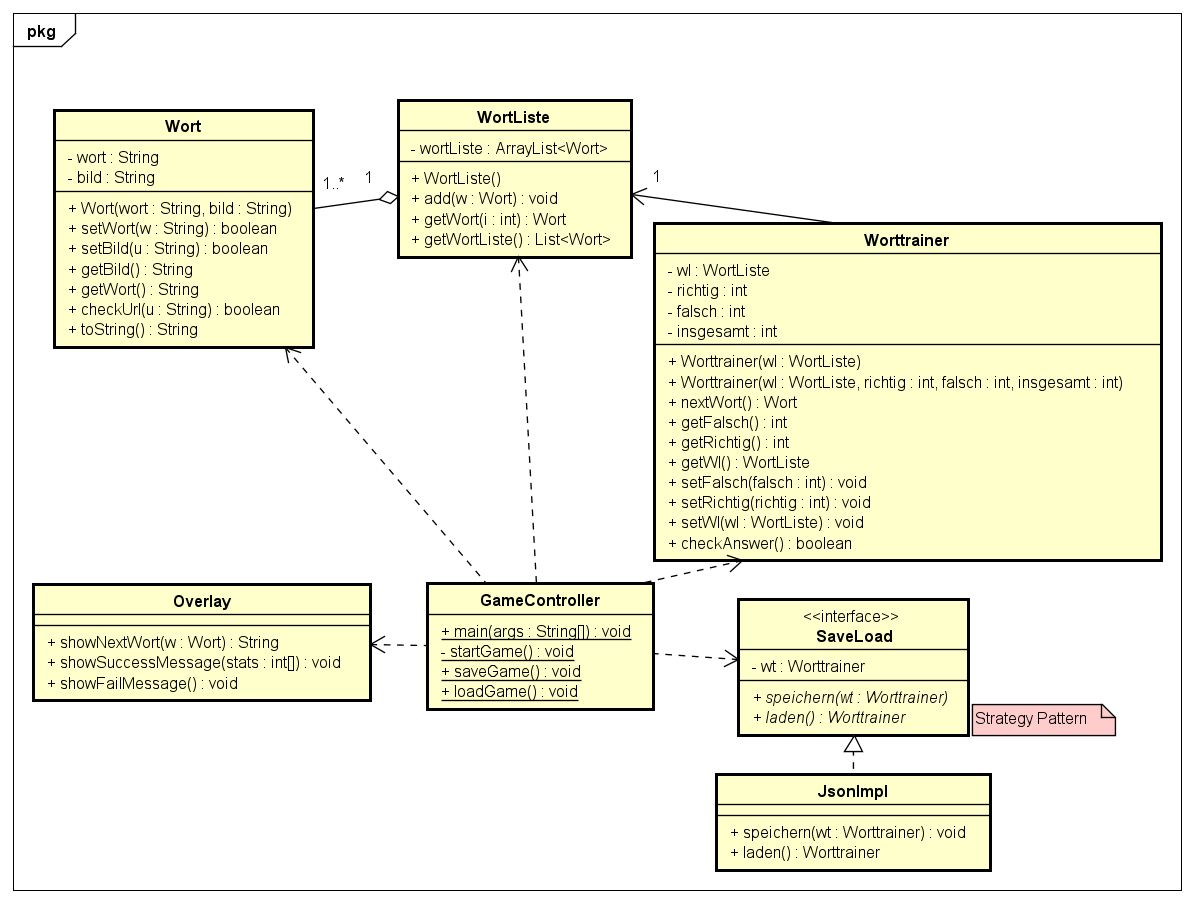
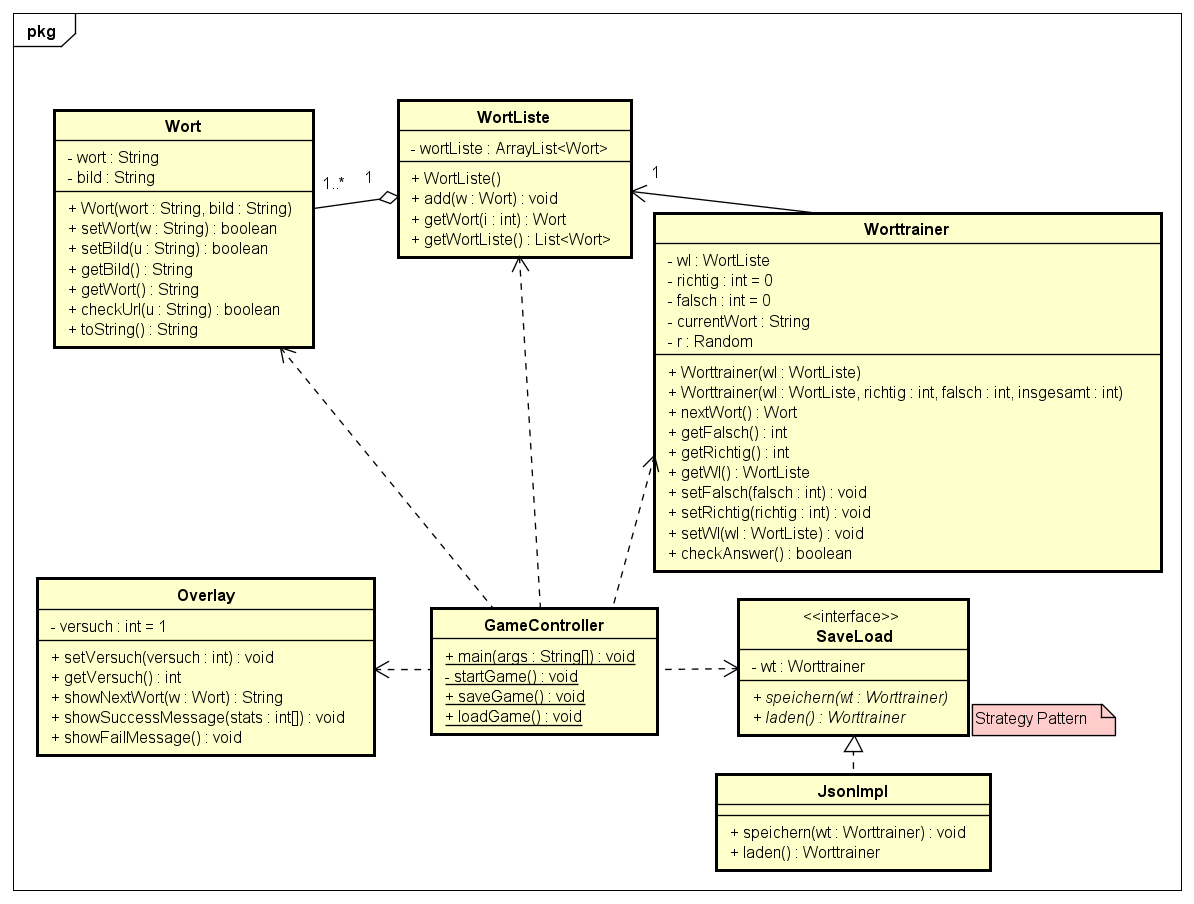
Einrückung in Overlay-Klasse README und UML erweitert

Changed region(s): [[0.0, 0.1858, 0.9916, 0.8363], [0.5888, 0.7124, 0.6198, 0.7434], [0.2169, 0.3717, 0.2479, 0.4027]]

diff --git a/src/main/java/at/bprinc/Overlay.java b/src/main/java/at/bprinc/Overlay.java
@@ -62,13 +62,9 @@ public class Overlay {
         buttonPanel.add(Box.createRigidArea(new Dimension(10, 0)));
         buttonPanel.add(ladenbtn);
 
-        speicherbtn.addActionListener(e -> {
-            GameController.saveGame();
-        });
+        speicherbtn.addActionListener(e -> GameController.saveGame());
 
-        ladenbtn.addActionListener(e -> {
-            GameController.loadGame();
-        });
+        ladenbtn.addActionListener(e -> GameController.loadGame());
 
         panel.add(buttonPanel);
         panel.add(Box.createRigidArea(new Dimension(0, 10)));

diff --git a/README.md b/README.md
@@ -1,7 +1,7 @@
 # WorttrainerReloaded
 **Autor**: Benjamin Princ
 
-**Datum**: 11.10.2024
+**Datum**: 13.10.2024
 
 ## Einleitung
 Ziel ist es den Worttrainer mit dem jetzigen Wissen neu umzusetzen und mit JOptionPane
@@ -16,9 +16,17 @@ Zu Start des Spiels wird ein neues [Worttrainer](/src/main/java/at/bprinc/Worttr
 mit einer vorgegebenen Wortliste erstellt.
 Die Benutzeroberfläche bietet dann die Methode ein altes Spiel zu laden, bzw das jetzige zu speichern.
 
+#### Verwendete Technologien
+Die Benutzeroberfläche (GUI) wird mit **JOptionPane** umgesetzt.
+
+Das Speichern und Laden ist auf Basis des Strategy Patterns aufgebaut und implementiert derzeit **JSON**.
+
 #### Benutzeroberfläche
 Im Programm Fenster wird das Bild des gesuchten Wortes, ein Eingabefeld und vier Buttons angezeigt:
 * **Speichern**: Speichert das Spiel unter einem fixen Speicherpfad
 * **Laden**: Lädt ein vergangenes Spiel aus dem fixen Speicherpfad
 * **OK**: Sendet die Nutzereingabe ab
 * **Cancel**: Beendet das Programm
+
+Außerdem gibt es, nach dem 1. Versuch für ein Wort, über dem Bild einen Text,
+welcher die Anzahl der Versuche für das derzeitige Wort anzeigt.
